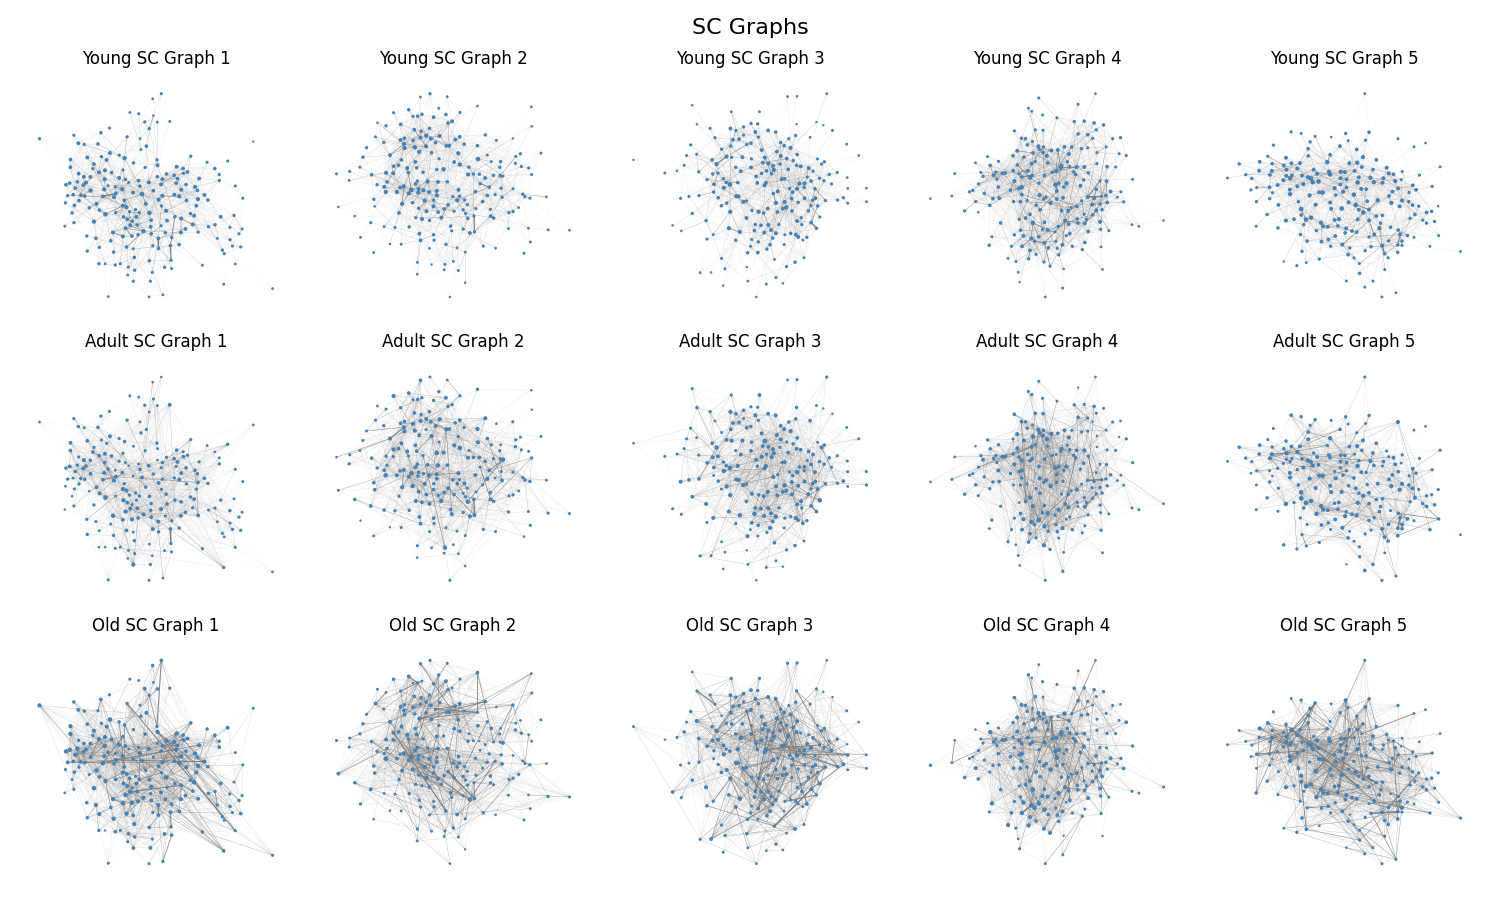
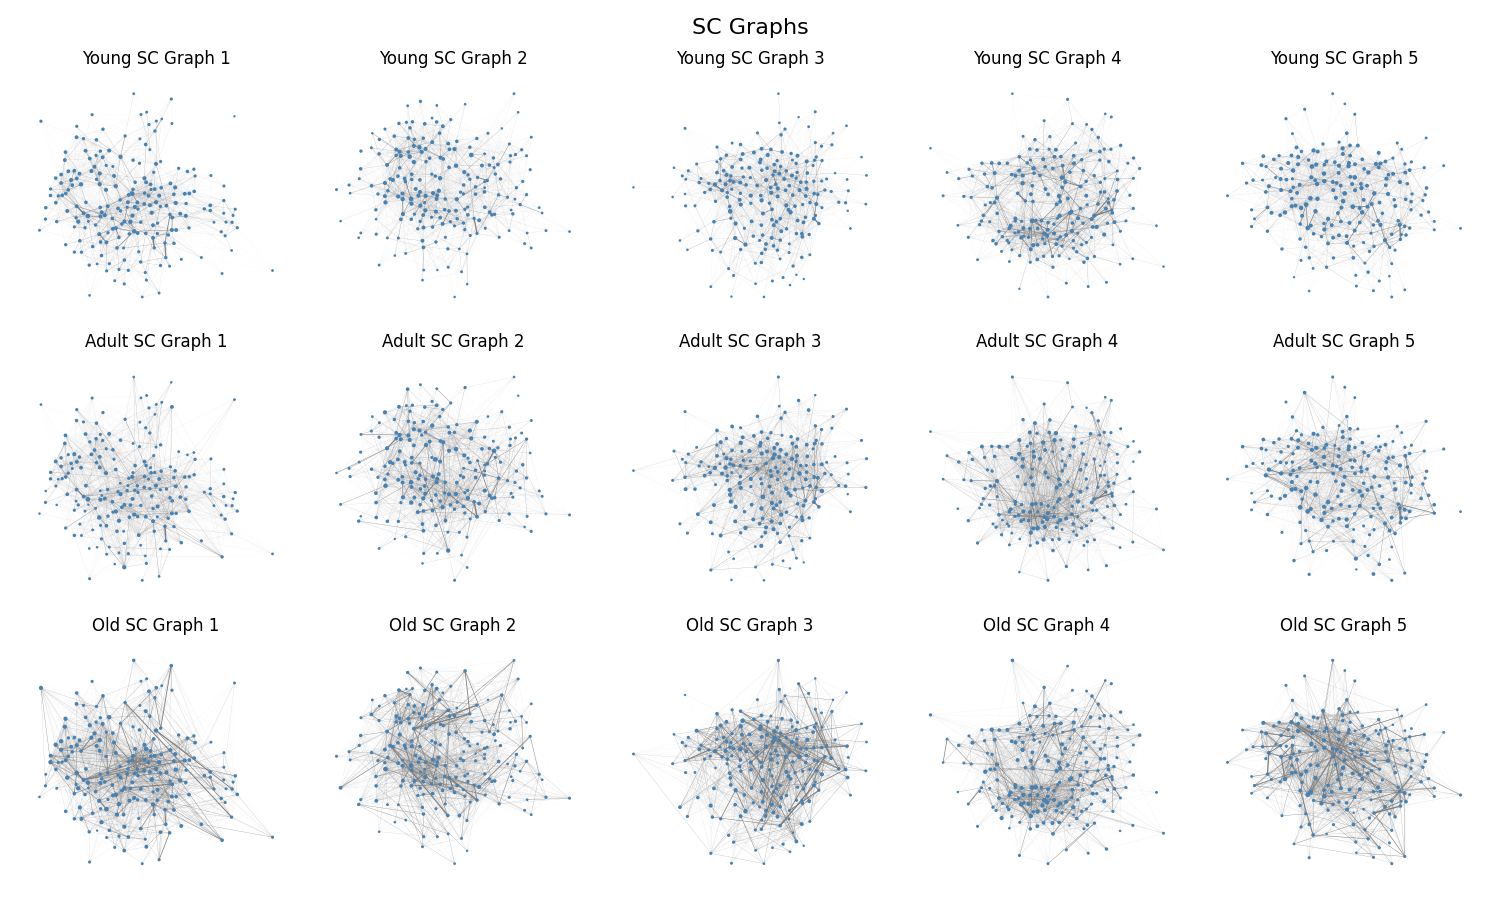
fixed plot and save with positions and partitions
Former-commit-id: bd3270eb89f856a05b16c4fea80192d05f3d4107

diff --git a/Codice.py b/Codice.py
@@ -417,9 +417,11 @@ fc_old_graph_preprocessed = [matrix_to_graph(fc_old_matrix_preprocessed[:, :, i]
 
 # Visualize the graphs
 
-def plot_graph_on_axis(graph, ax, title, pos = None):
-    """Plot a graph on a given axis with node sizes proportional to the degree and edge widths proportional to the edge weights."""
+def plot_graph_on_axis(graph, ax, title, pos = None, partition = None):
+    """Plot a graph on a given axis with node sizes proportional to the degree and edge widths proportional to the edge weights. 
+        If partition is provided, nodes are colored by their community."""
     ax.set_title(title)
+
     # Extract edge weights
     edge_weights = [graph[u][v]['weight'] for u, v in graph.edges()]
     # Apply min-max normalization
@@ -432,24 +434,29 @@ def plot_graph_on_axis(graph, ax, title, pos = None):
 
     # Calculate the degree of each node
     degrees = dict(graph.degree())
-    
     # Normalize the degrees to the range 0-1
     max_degree = max(degrees.values())
     min_degree = min(degrees.values())
     normalized_degrees = {node: (degree - min_degree) / (max_degree - min_degree) for node, degree in degrees.items()}
-    
     # Set node sizes based on normalized degrees
     node_sizes = [(normalized_degrees[node] + 0.1) * 5 for node in graph.nodes()]  
+
+    if partition:
+        # If partition is provided, color nodes by their community
+        cmap = plt.get_cmap('viridis', max(partition.values()) + 1)
+        node_color = list(partition.values())
+    else:
+        node_color = 'steelblue'
     
     # Draw the graph
     if pos is None:
         pos = nx.spring_layout(graph, seed=42)
-    nx.draw(graph, pos, ax=ax, node_size=node_sizes, with_labels=False, node_color='steelblue', edge_color='gray', width=edge_weights)
+    nx.draw(graph, pos, ax=ax, node_size=node_sizes, with_labels=False, node_color=node_color, cmap=cmap if partition else None, edge_color='gray', width=edge_weights)
 
     return pos
 
 
-def plot_and_save_graph(young_graphs, adult_graphs, old_graphs, title_prefix, filename=None, positions = None):
+def plot_and_save_graph(young_graphs, adult_graphs, old_graphs, title_prefix, filename=None, positions = None, partitions = None):
     """
     Plot and save graphs for different age groups on a grid of subplots.
     
@@ -459,22 +466,29 @@ def plot_and_save_graph(young_graphs, adult_graphs, old_graphs, title_prefix, fi
     - old_graphs: List of 5 NetworkX graphs for old subjects
     - title_prefix: 'FC' or 'SC'
     - filename: name.png
+    - positions: List of positions for the graphs
+    - partitions: List of 3 lists, each containing partitions for the graphs of each age group
     """
     fig, axs = plt.subplots(3, 5, figsize=(15, 9))
     fig.suptitle(f'{title_prefix} Graphs', fontsize=16)
 
     if positions is None:
         positions = [] 
+    
+    if partitions is None:
+        partitions = [None] * 3
+        
+    # add a funciton to validate the partitions and positions lengths = 5?
 
     for i in range(5):
-        if positions != []:
+        if len(positions) > i:
             pos = positions[i]
-            plot_graph_on_axis(young_graphs[i], axs[0, i], f"Young {title_prefix} Graph {i+1}", pos)
+            plot_graph_on_axis(young_graphs[i], axs[0, i], f"Young {title_prefix} Graph {i+1}", pos, partitions[0][i] if partitions[0] else None)
         else:
-            pos = plot_graph_on_axis(young_graphs[i], axs[0, i], f"Young {title_prefix} Graph {i+1}")
+            pos = plot_graph_on_axis(young_graphs[i], axs[0, i], f"Young {title_prefix} Graph {i+1}", partition=partitions[0][i] if partitions[0] else None)
             positions.append(pos)
-        plot_graph_on_axis(adult_graphs[i], axs[1, i], f"Adult {title_prefix} Graph {i+1}", pos)
-        plot_graph_on_axis(old_graphs[i], axs[2, i], f"Old {title_prefix} Graph {i+1}", pos)
+        plot_graph_on_axis(adult_graphs[i], axs[1, i], f"Adult {title_prefix} Graph {i+1}", pos, partitions[1][i] if partitions[1] else None)
+        plot_graph_on_axis(old_graphs[i], axs[2, i], f"Old {title_prefix} Graph {i+1}", pos, partitions[2][i] if partitions[2] else None)
 
     plt.tight_layout()
     #plt.show()
@@ -507,23 +521,26 @@ plot_and_save_graph(fc_young_graph_preprocessed, fc_adult_graph_preprocessed, fc
 # TODO: try Louvain with only Louvain preprocessing
 
 def louvain_preprocessing(graph):
+    # Create a copy of the graph to avoid in-place modifications
+    graph_copy = graph.copy()
+
     # Remove nodes with zero degree
-    graph.remove_nodes_from(list(nx.isolates(graph)))
+    graph_copy.remove_nodes_from(list(nx.isolates(graph_copy)))
 
     # Remove self-loops
-    graph.remove_edges_from(nx.selfloop_edges(graph))
+    graph_copy.remove_edges_from(nx.selfloop_edges(graph_copy))
 
     # Remove edges with weight 0
-    zero_edges = [(u, v) for u, v, d in graph.edges(data=True) if d.get('weight', 1) == 0]
-    graph.remove_edges_from(zero_edges)
+    zero_edges = [(u, v) for u, v, d in graph_copy.edges(data=True) if d.get('weight', 1) == 0]
+    graph_copy.remove_edges_from(zero_edges)
 
     # Ensure the graph is connected (remove small disconnected components)
-    if not nx.is_connected(graph):
+    if not nx.is_connected(graph_copy):
         # Get the largest connected component
-        largest_cc = max(nx.connected_components(graph), key=len)
-        graph = graph.subgraph(largest_cc).copy()
+        largest_cc = max(nx.connected_components(graph_copy), key=len)
+        graph_copy = graph_copy.subgraph(largest_cc).copy()
     
-    return graph
+    return graph_copy
 
 # Apply the Louvain preprocessing function to the preprocessed FC graphs
 fc_young_graph_preprocessed_louvain = [louvain_preprocessing(graph) for graph in fc_young_graph_preprocessed]
@@ -539,48 +556,17 @@ sc_old_graph_preprocessed_louvain = [louvain_preprocessing(graph) for graph in s
 
 # Visualize Louvain preprocessed graphs
 
-def filter_positions(original_positions, graph):
-    """
-    Remove positions of nodes that are not in the graph.
-    
-    Parameters:
-    - original_positions: dict, positions of nodes in the original graph
-    - graph: NetworkX graph, the graph after preprocessing
-    
-    Returns:
-    - filtered_positions: dict, positions of nodes that are still in the graph
-    """
-    return {node: pos for node, pos in original_positions.items() if node in graph.nodes()}
+""" I don't need to filter out removed nodes's positions from positions"""
 
 """
-if positions_sc is None:
-    print("positions_sc is None")
-elif sc_young_graph_preprocessed_louvain is None:
-    print("sc_young_graph_preprocessed_louvain is None")
-else:
-    for i in range(5):
-        if positions_sc[i] is None:
-            print(f"positions_sc[{i}] is None")
-        if sc_young_graph_preprocessed_louvain[i] is None:
-            print(f"sc_young_graph_preprocessed_louvain[{i}] is None")
-"""
-
-"""
-# update positions for the Louvain preprocessed SC graphs
-positions_sc_louvain = [filter_positions(positions_sc[i], sc_young_graph_preprocessed_louvain[i]) for i in range(5)]
-
-# update positions for the Louvain preprocessed FC graphs
-positions_fc_louvain = [filter_positions(positions_fc[i], fc_young_graph_preprocessed_louvain[i]) for i in range(5)]
-
-
 # Visualize the Louvain preprocessed SC graphs
-
-plot_and_save_graph(sc_young_graph_preprocessed_louvain, sc_adult_graph_preprocessed_louvain, sc_old_graph_preprocessed_louvain, 'SC', 'SC_graphs_preprocessed_louvain.png', positions_sc_louvain)
-
+plot_and_save_graph(sc_young_graph_preprocessed_louvain, sc_adult_graph_preprocessed_louvain, sc_old_graph_preprocessed_louvain, 'SC', 'SC_graphs_preprocessed_louvain.png', positions_sc)
 
 # Visualize the Louvain preprocessed FC graphs
-plot_and_save_graph(fc_young_graph_preprocessed_louvain, fc_adult_graph_preprocessed_louvain, fc_old_graph_preprocessed_louvain, 'FC', 'FC_graphs_preprocessed_louvain.png', positions_fc_louvain)
+plot_and_save_graph(fc_young_graph_preprocessed_louvain, fc_adult_graph_preprocessed_louvain, fc_old_graph_preprocessed_louvain, 'FC', 'FC_graphs_preprocessed_louvain.png', positions_fc)
 """
+
+
 
 # Community detection using Louvain method
 
@@ -613,8 +599,6 @@ def plot_communities_on_axis(graph, partition, ax, title):
     # Use edge weights as edge widths
     nx.draw(graph, pos, ax=ax, with_labels=False, node_color=list(partition.values()), node_size=1, cmap=cmap, edge_color='gray', width=edge_weights)
 
-
-# Plot the graphs with communities
 
 
 # Visualize SC graphs with communities
@@ -651,6 +635,18 @@ for i, graph in enumerate(fc_old_graph_preprocessed_louvain):
 plt.tight_layout()
 plt.show()
 """
+
+
+# Visualize SC graphs with communities
+
+plot_and_save_graph(sc_young_graph_preprocessed_louvain, sc_adult_graph_preprocessed_louvain, sc_old_graph_preprocessed_louvain, 'SC', 'SC_graphs_preprocessed_louvain_communities.png', positions_sc, [sc_young_partition, sc_adult_partition, sc_old_partition])
+
+# Visualize FC preprocessed Louvain graphs with communities 
+
+plot_and_save_graph(fc_young_graph_preprocessed_louvain, fc_adult_graph_preprocessed_louvain, fc_old_graph_preprocessed_louvain, 'FC', 'FC_graphs_preprocessed_louvain_communities.png', positions_fc, [fc_young_partition, fc_adult_partition, fc_old_partition])
+
+
+
 
 
 # TODO: Community Detection Evaluation
